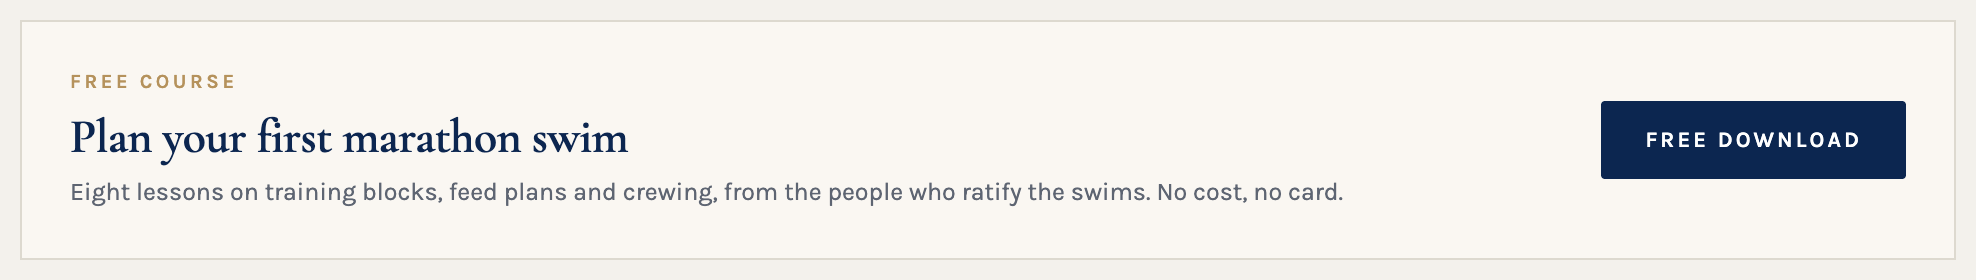
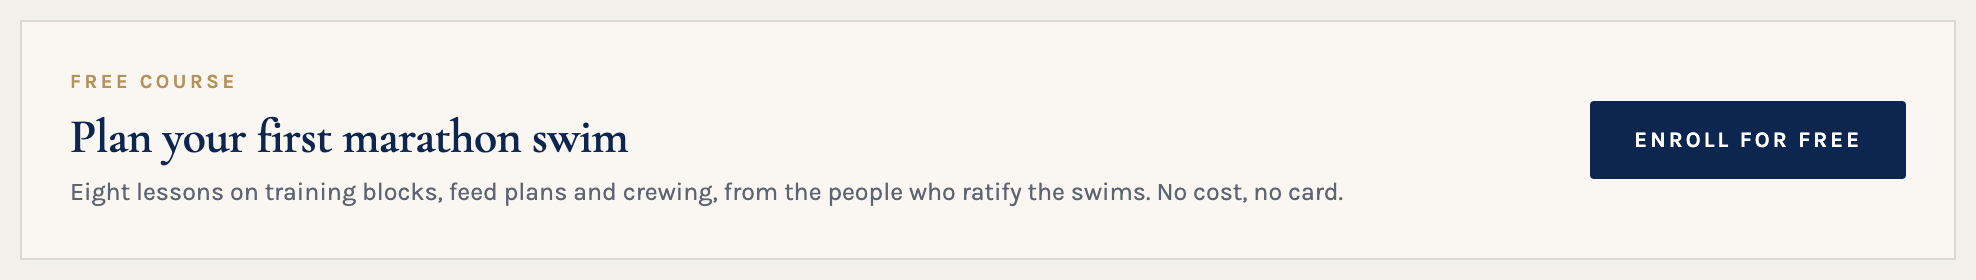
Swap D and F positions back, match F's color to D, fix D's CTA to Enroll for free
D moves to mid-article (Marathon Swimming), F moves to after-content
(Reading Risk), both now share the same cream, no-mark scraper treatment
instead of F's earlier navy style. D's CTA corrected from Free download
to Enroll for free, since the destination requires sign-in and course
enrollment, not a downloadable file. README, previews, and file names
updated to match.

Changed region(s): [[0.8026, 0.3714, 0.957, 0.6286]]

diff --git a/slot-f-bottom-scraper.html b/slot-f-bottom-scraper.html
@@ -1,0 +1,33 @@
+<!--
+  WOWSA archive promotion, Slot F: wide scraper, after the article body.
+  970 x 120 (fluid). WPCode "Insert After Post" snippet. Reading Risk,
+  general framing. Same cream treatment as Slot D by design, the two
+  scrapers (mid-article and after-content) share one visual language,
+  differing only in offer. No mark, to match Slot D's plain treatment.
+  See README.md in this repo before editing.
+-->
+<style>
+.wowsa-promo-f{font-family:"Karla",-apple-system,BlinkMacSystemFont,"Segoe UI",Roboto,Helvetica,Arial,sans-serif;box-sizing:border-box}
+.wowsa-promo-f *{box-sizing:border-box}
+.wowsa-promo-f .ad{display:flex;align-items:center;flex-wrap:wrap;gap:clamp(13px,2vw,24px);
+  padding:clamp(15px,1.8vw,20px) clamp(16px,2vw,24px);min-height:clamp(96px,12vw,120px);
+  background:#FAF7F2;border:1px solid #DDD9CF;color:#0C2650;text-decoration:none;container-type:inline-size}
+.wowsa-promo-f .grow{flex:1 1 240px;min-width:0}
+.wowsa-promo-f .kick{font-size:10px;letter-spacing:.18em;text-transform:uppercase;font-weight:600;color:#B5925C}
+.wowsa-promo-f .h{font-family:"Cormorant Garamond",Georgia,"Times New Roman",serif;font-weight:600;
+  letter-spacing:-.01em;line-height:1.1;font-size:clamp(19px,2.6cqw,26px);margin:9px 0 5px;color:#0C2650}
+.wowsa-promo-f .s{font-size:12.5px;line-height:1.45;color:#5E6572}
+.wowsa-promo-f .btn{display:inline-block;background:#0C2650;color:#fff;font-size:11px;font-weight:600;
+  letter-spacing:.14em;text-transform:uppercase;padding:13px 22px;text-decoration:none;
+  white-space:nowrap;border-radius:2px;flex:none}
+</style>
+<div class="wowsa-promo-f">
+  <a class="ad" href="https://www.openwaterswimming.com/learn/reading-risk" target="_blank" rel="noopener noreferrer">
+    <div class="grow">
+      <div class="kick">Free access</div>
+      <div class="h">How experienced swimmers read changing conditions</div>
+      <div class="s">Reading Risk, WOWSA's shared framework for judgment in open water.</div>
+    </div>
+    <span class="btn">Get free access</span>
+  </a>
+</div>

diff --git a/slot-d-mid-scraper.html b/slot-d-mid-scraper.html
@@ -1,10 +1,9 @@
 <!--
-  WOWSA archive promotion, Slot D: wide scraper, after the article body.
-  970 x 120 (fluid). WPCode "Insert After Post" snippet. Placed after
-  content on purpose: Marathon Swimming is for readers serious enough to
-  finish the article, unlike the general-audience Reading Risk offer in
-  Slot F, which runs mid-article instead. No mark: a free course carries
-  no certification claim. See README.md in this repo before editing.
+  WOWSA archive promotion, Slot D: wide scraper, mid-article.
+  970 x 120 (fluid). WPCode "Insert Into Post Content" snippet, dropped
+  roughly halfway through. Marathon Swimming, the free foundational
+  course. No mark: a free course carries no certification claim.
+  See README.md in this repo before editing.
 -->
 <style>
 .wowsa-promo-d{font-family:"Karla",-apple-system,BlinkMacSystemFont,"Segoe UI",Roboto,Helvetica,Arial,sans-serif;box-sizing:border-box}
@@ -28,6 +27,6 @@
       <div class="h">Plan your first marathon swim</div>
       <div class="s">Eight lessons on training blocks, feed plans and crewing, from the people who ratify the swims. No cost, no card.</div>
     </div>
-    <span class="btn">Free download</span>
+    <span class="btn">Enroll for free</span>
   </a>
 </div>

diff --git a/README.md b/README.md
@@ -17,13 +17,13 @@ Do not add a price, a checkout link, or a certification claim to any of these un
 | `slot-a-top-scraper.html` | A | 970 x 120 | Before the article title | `/learn/reading-risk`, coach framing |
 | `slot-b-sidebar-banner.html` | B | 300 x 600 | Sidebar, top | `/learn/reading-risk`, organizer framing |
 | `slot-c-sidebar-square.html` | C | 300 x 250 | Sidebar, below banner | `/learn/reading-risk` |
-| `slot-d-bottom-scraper.html` | D | 970 x 120 | After the article body | `/learn/courses/marathon-swimming` |
+| `slot-d-mid-scraper.html` | D | 970 x 120 | Mid-article, roughly halfway through the content | `/learn/courses/marathon-swimming` |
 | `slot-e-sidebar-square-alt.html` | E | 300 x 250 | Sidebar, in place of C | `/learn/reading-risk` |
-| `slot-f-mid-scraper.html` | F | 970 x 120 | Mid-article, roughly halfway through the content | `/learn/reading-risk` |
+| `slot-f-bottom-scraper.html` | F | 970 x 120 | After the article body | `/learn/reading-risk` |
 
-A, D and F split the archive audience by how far they read. A shows before anyone starts, so it carries the broadest, coach-framed hook. F sits mid-article, where the general readership is still on the page, so it repeats the Reading Risk offer in plainer, audience-agnostic language. D runs after the article body, where only readers who finished the piece remain, so it carries the more involved offer, the free Marathon Swimming course, aimed at people serious enough to read to the end.
+A, D and F split the archive audience by how far they read. A shows before anyone starts, coach-framed, navy treatment, and carries the WOWSA mark. D and F share the same cream, no-mark treatment by design, one wide scraper style used twice: D sits mid-article with the Marathon Swimming course, F runs after the article body with the general-audience Reading Risk offer.
 
-**Why "Free download" on some units and "Get free access" on others:** readers get an immediate downloadable asset first, the email series that follows starts after that. "Free download" describes that first-touch deliverable accurately, it is not describing the whole series. The two phrasings are split across units that could plausibly appear on the same page together (A pairs with F, F pairs with D) specifically so the same page never shows the identical button twice.
+**CTA copy, by what actually happens when you click:** A and F both lead to Reading Risk, where readers get an immediate downloadable asset first, the email series that follows starts after that. "Free download" (A) describes that first-touch deliverable accurately, it is not describing the whole series. "Get free access" (F) is the same offer worded differently, so the two units don't show an identical button when they land on the same page together. D leads to the Marathon Swimming course, which requires signing in and enrolling, not downloading anything, so it says "Enroll for free" instead, matching what the destination page actually asks the reader to do.
 
 ### Preview
 
@@ -39,13 +39,13 @@ Rendered from the actual files, not mockups, so what you see below is what pasti
 <img src="preview/slot-c.png" width="240" alt="Slot C, sidebar square">
 
 **Slot D**
-<img src="preview/slot-d.png" width="700" alt="Slot D, bottom scraper">
+<img src="preview/slot-d.png" width="700" alt="Slot D, mid-article scraper">
 
 **Slot E**
 <img src="preview/slot-e.png" width="240" alt="Slot E, sidebar square, dark alternate">
 
 **Slot F**
-<img src="preview/slot-f.png" width="700" alt="Slot F, mid-article scraper">
+<img src="preview/slot-f.png" width="700" alt="Slot F, after-content scraper">
 
 **A, D and F run together automatically, plus one sidebar unit.** They sit at three different points in the same article (before, middle, after) via WPCode, so all three can appear on one page at once, that is by design, not an oversight. Add one sidebar unit (B, C, or E) on top of that. C and E are two visual treatments of the same offer, light and dark, use one or the other in a given sidebar, not both.
 
@@ -64,9 +64,9 @@ Only the sidebar has a real widget area. There is no widget area in the header o
 3. Paste the full contents of the file.
 4. Set **Insertion → Location → Auto Insert**:
    - `slot-a-top-scraper.html` → **Insert Before Post**
-   - `slot-f-mid-scraper.html` → **Insert Into Post Content**, positioned roughly halfway through (WPCode offers this as an after-paragraph-number or percentage-through-content option, pick whichever lands closest to the midpoint)
-   - `slot-d-bottom-scraper.html` → **Insert After Post**
-5. Under **Smart Conditional Logic**, restrict all three (A, F, and D) to **Posts, Pages, and Coaches** only, and explicitly exclude the homepage. None of these three should ever show on the homepage, only on individual posts, pages, and coach profiles. For A and D specifically, this also solves a second problem: without a Single Post restriction, "Before Post" and "After Post" can fire once per item on category and archive listing pages, repeating the unit down the page instead of showing it once on the article.
+   - `slot-d-mid-scraper.html` → **Insert Into Post Content**, positioned roughly halfway through (WPCode offers this as an after-paragraph-number or percentage-through-content option, pick whichever lands closest to the midpoint)
+   - `slot-f-bottom-scraper.html` → **Insert After Post**
+5. Under **Smart Conditional Logic**, restrict all three (A, D, and F) to **Posts, Pages, and Coaches** only, and explicitly exclude the homepage. None of these three should ever show on the homepage, only on individual posts, pages, and coach profiles. For A and F specifically, this also solves a second problem: without a Single Post restriction, "Before Post" and "After Post" can fire once per item on category and archive listing pages, repeating the unit down the page instead of showing it once on the article.
 6. Save as inactive first, preview on one live post, page, and coach profile, then activate.
 
 This uses WPCode's own insertion logic rather than a hand-written theme hook, so there is no guessing at which template file or action name this specific theme uses.
@@ -83,13 +83,13 @@ These are live markup, not exported banners. Copy, the destination link, or the 
 
 ## The mark
 
-Slots A, B, C and F carry the WOWSA association mark, applied as a CSS mask so it can be tinted to whatever color the unit needs, white on the navy units, navy on the cream one, from a single source image:
+Slots A, B and C carry the WOWSA association mark, applied as a CSS mask so it can be tinted to whatever color the unit needs, white on the navy units, navy on the cream one, from a single source image:
 
 ```
 https://www.openwaterswimming.com/wp-content/uploads/2023/07/wowsa-white-logo.png
 ```
 
-This file is already live in the WordPress media library, confirmed byte-identical to the asset used in the approved mockup. No certification seal appears anywhere in this set, because none of these units are selling a certification right now. Slots D and E carry no mark at all, D because a free course carries no certification claim, E because it repeats slot C's offer in a different treatment.
+This file is already live in the WordPress media library, confirmed byte-identical to the asset used in the approved mockup. No certification seal appears anywhere in this set, because none of these units are selling a certification right now. Slots D, E and F carry no mark at all: D and F share a plainer, mark-free cream treatment by design, E repeats slot C's offer in a different color treatment.
 
 ## Fonts
 
